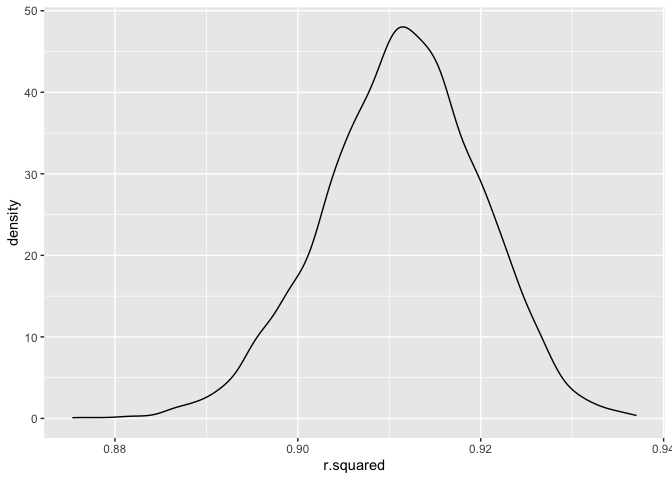
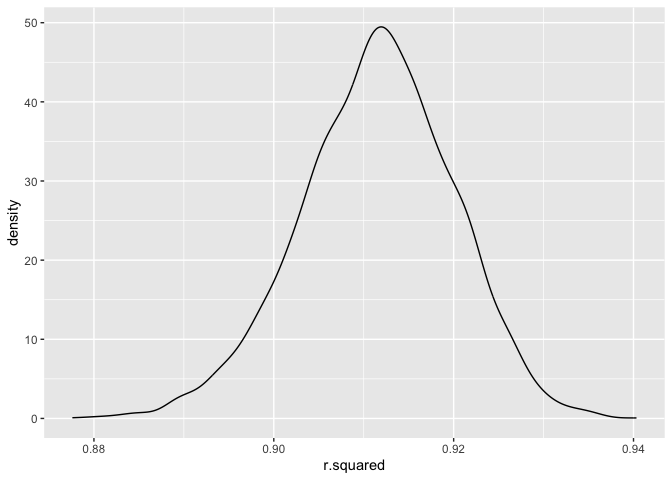
Making plot for log(beta_0 * beta_1) estimates.

diff --git a/p8105_hw6_mm6410.md b/p8105_hw6_mm6410.md
@@ -36,7 +36,10 @@ weather_df =
   bootstrap(5000) |> 
   mutate(
     models = map(strap, \(df) lm(tmax ~ tmin, data = df)),
-    results = map(models, broom::tidy),
+    log_beta = map_dbl(models, ~ {
+      coefs = broom::tidy(.x)
+      log(coefs$estimate[1] * coefs$estimate[2])
+    }),
     glance = map(models, broom::glance)
   )
 ```
@@ -63,7 +66,17 @@ weather_df |>
   mean()
 ```
 
-    ## [1] 0.9113248
+    ## [1] 0.9114504
 
 We can see from the density plot of the R-squared estimates that it is
 normally distributed. The mean of the R-squared estimates is 0.911.
+
+### Plotting the log($\hat{\beta}_{0}$ \* $\hat{\beta}_{1}$)
+
+``` r
+weather_df |> 
+  ggplot(aes(x = log_beta)) +
+  geom_density()
+```
+
+![](p8105_hw6_mm6410_files/figure-gfm/unnamed-chunk-5-1.png)<!-- -->
